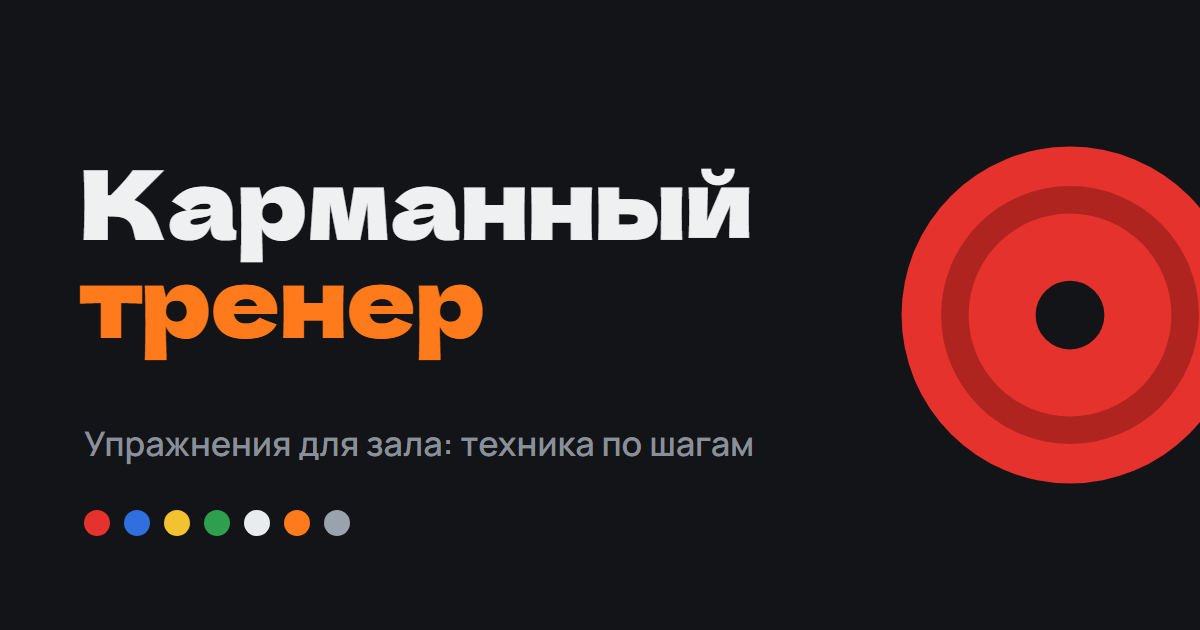
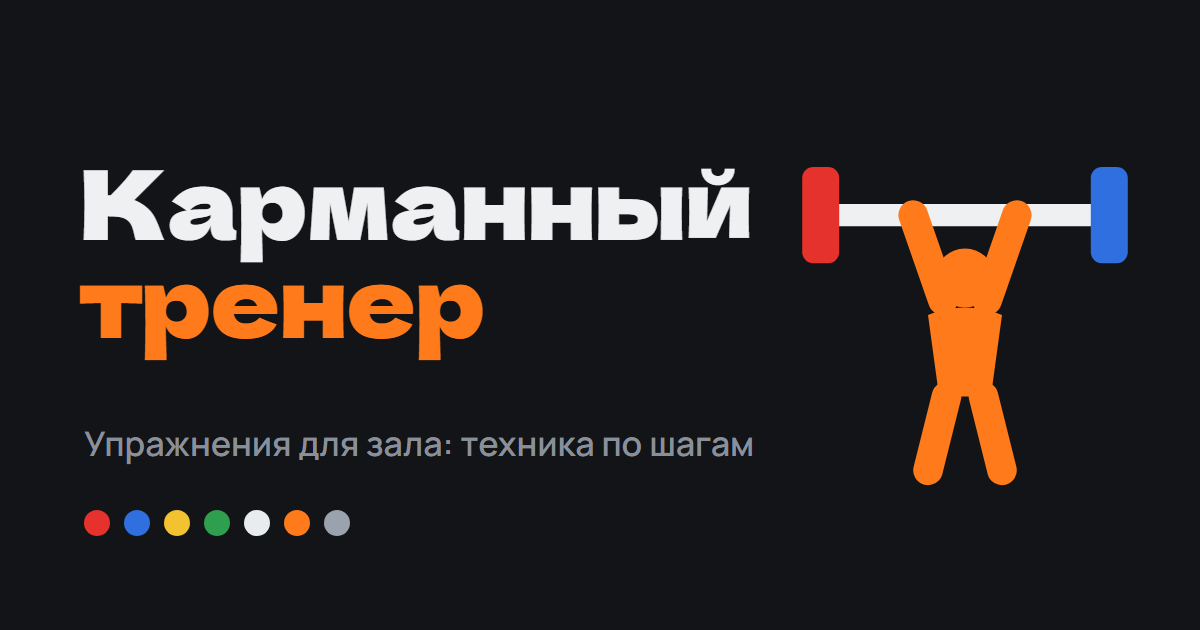
Новый вид: логотип со штангой, значки мышц у групп, живое меню и текст
Логотип «человечек жмёт штангу» (шапка, favicon, иконки, превью соцсетей),
значок группы — мышца на фигуре, меню-«пилюля» с откликом на нажатие,
цветные шаги и ошибки на странице упражнения. Правки по ревью: контраст
цифр на светлых группах, отдельная maskable-иконка.

Changed region(s): [[0.6475, 0.2111, 1.0, 0.7841]]

diff --git a/src/styles/global.css b/src/styles/global.css
@@ -8,10 +8,12 @@
 
 :root {
   color-scheme: dark;
-  --bg: #121417; --surface: #1c1f24; --fg: #eef0f2; --muted: #8a9099; --line: #2b2f36;
+  --bg: #121417; --surface: #1c1f24; --surface2: #23272d; --fg: #eef0f2; --fg2: #c9cdd3; --muted: #8a9099; --line: #2b2f36;
   --accent: #ff7a1a; --accent-ink: #121417;
   --muscle: #3c424c; --muscle-hi: #5a6370; --skin: #262a31;
   --g-chest: #e5322d; --g-back: #2f6fe0; --g-shoulders: #f2c230; --g-arms: #e9ecef; --g-legs: #2e9e4f; --g-glutes: #ff7a1a; --g-core: #9aa3ad;
+  /* Цвет текста поверх цвета группы (цифры в кружках): на тёмных — белый, на светлых — тёмный. */
+  --gi-chest: #fff; --gi-back: #fff; --gi-shoulders: #121417; --gi-arms: #121417; --gi-legs: #121417; --gi-glutes: #121417; --gi-core: #121417;
   --f-display: "Dela Gothic One", "Arial Black", system-ui, sans-serif;
   --f-body: "Manrope", "Segoe UI", system-ui, sans-serif;
   --f-mono: "IBM Plex Mono", ui-monospace, Consolas, monospace;
@@ -30,7 +32,7 @@ h1, h2 { font-family: var(--f-display); font-weight: 400; margin: 0; text-wrap: 
 h1 { font-size: clamp(30px, 5vw, 56px); }
 h2 { font-size: clamp(20px, 2.4vw, 26px); }
 .eyebrow { font: 500 12px var(--f-mono); letter-spacing: .08em; text-transform: uppercase; color: var(--muted); }
-.lead { color: var(--muted); max-width: 54ch; margin: 0; }
+.lead { color: var(--fg2); max-width: 54ch; margin: 0; }
 
 .btn { display: inline-flex; align-items: center; gap: 8px; border: 0; border-radius: 12px; padding: 11px 16px; font-weight: 700; font-size: 14px; cursor: pointer; text-decoration: none; white-space: nowrap; }
 .btn.main { background: var(--accent); color: var(--accent-ink); }

diff --git a/AGENTS.md b/AGENTS.md
@@ -67,3 +67,8 @@ Astro 7 (статичные страницы), TypeScript в `<script>` комп
   пока `METRIKA_ID = null`, ничего не грузится; с номером — плашка согласия, счётчик после «Разрешить»,
   цели `exercise_open`, `video_play`, `app_installed` (событие `goal` на window); как подключить — `src/lib/analytics.ts`.
   Политика — раздел на «О проекте», там же кнопка отзыва согласия (появится вместе со счётчиком).
+- 28.10.2026 — новый вид по просьбе Вадима (варианты — `studio/docs/design/trenirovki/v2.html`): логотип
+  «человечек жмёт штангу» — рисунок в трёх местах: `src/components/Logo.astro`, `public/favicon.svg`, PNG в
+  `public/icons/` (+ maskable — мельче, для круглой маски Android) и `public/og.png`; менять все вместе.
+  Значок группы — мышца на фигуре: `BodyDefs` (фигура один раз в `<defs>`) + `MuscleIcon` (`<use>` и
+  `--hl-<группа>`). Меню: снизу «пилюля», сверху оранжевая кнопка. Цвет текста на цвете группы — `--gi-*`.
